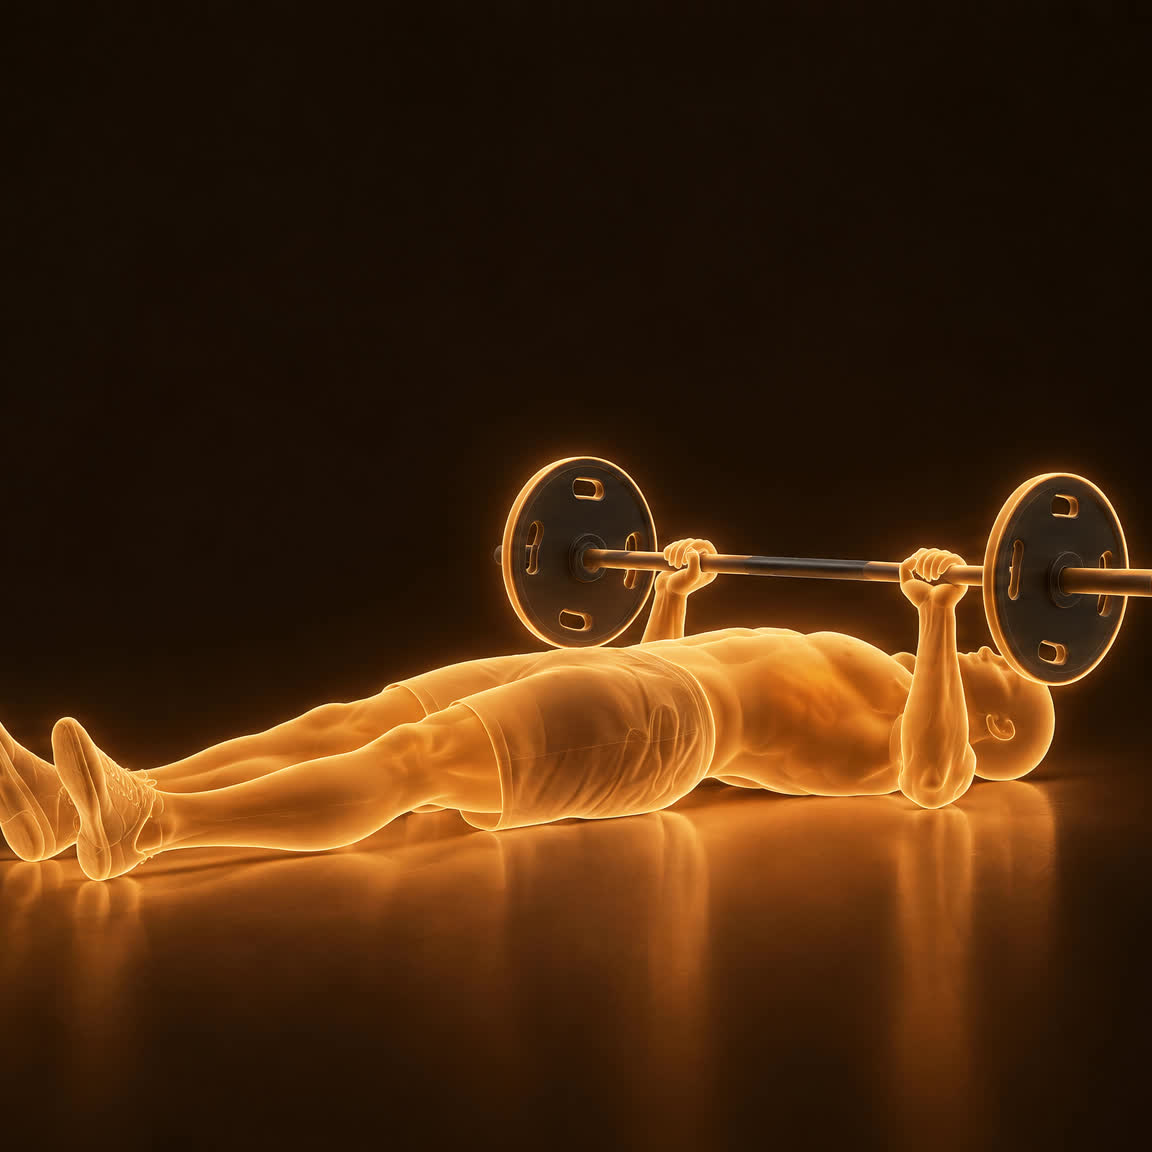
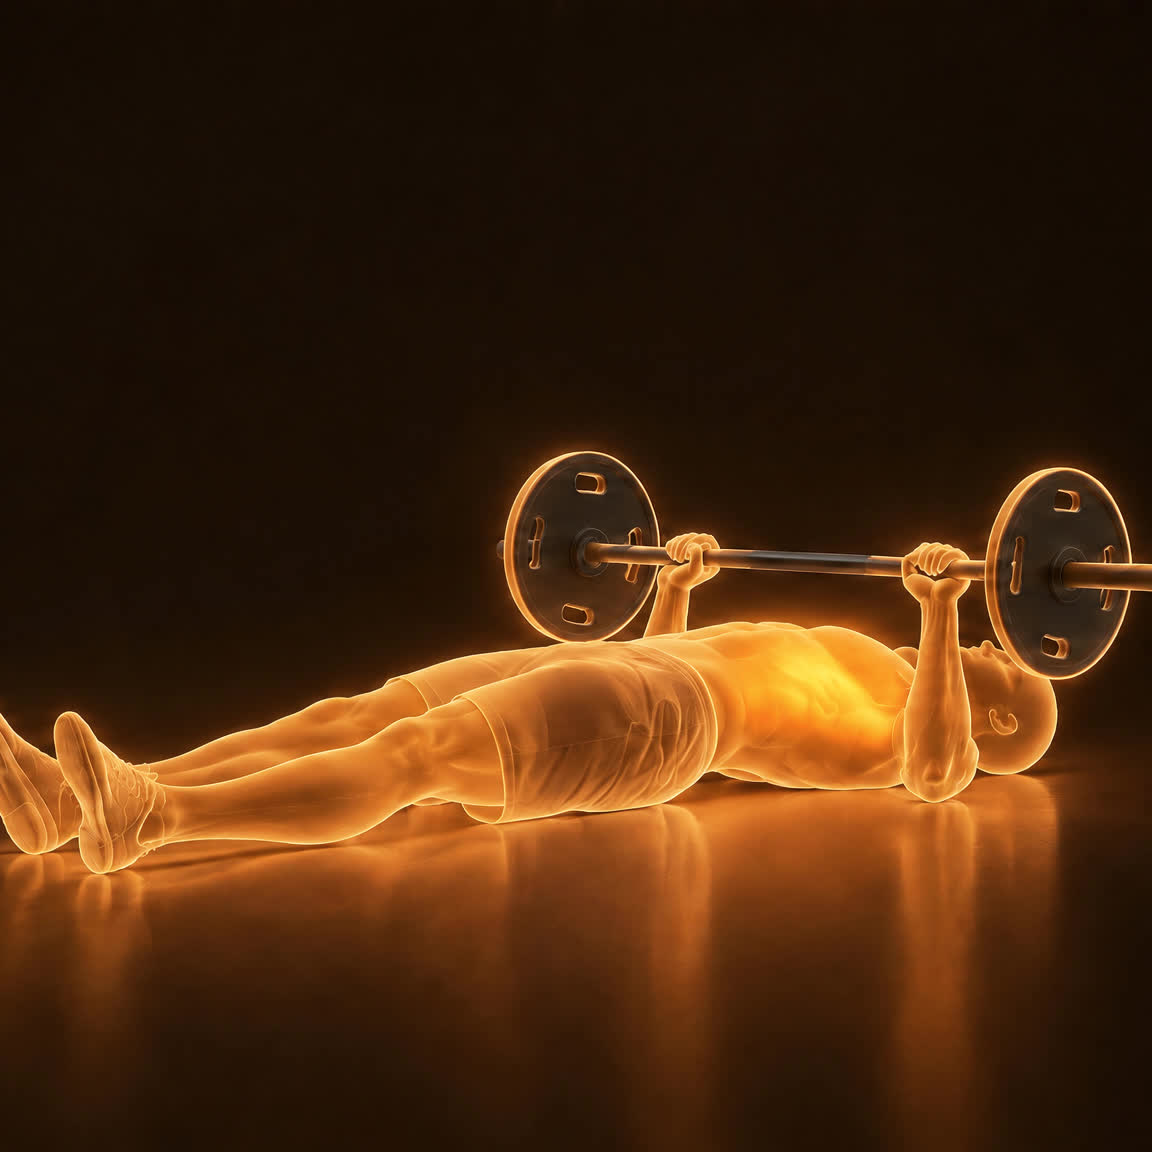
Unification round 1 v2: working-muscle glow stronger (Asaf), as an edit of each approved pair so the poses stay; x245's rib patch removed in the same edit. All 18 frames inside check 8. 9 credits.

Changed region(s): [[0.0, 0.375, 1.0, 0.7812]]

diff --git a/exercise-sheets/unify.html b/exercise-sheets/unify.html
@@ -3,7 +3,7 @@
 h1{font-size:21px;margin:0 0 4px}p{color:var(--mut);margin:0 0 16px}p.warn{color:var(--warn);margin:0 0 8px}h2{font-size:17px;margin:22px 0 8px;border-top:1px solid var(--line);padding-top:12px}h2 small{color:var(--mut);font-weight:400;font-size:13px}
 .row{display:grid;grid-template-columns:1fr 1fr;gap:8px}figure{margin:0}img{width:100%;display:block;border-radius:6px}figcaption{color:var(--mut);font-size:13px;margin-top:2px}
 .ref{display:grid;grid-template-columns:1fr 1fr 1fr;gap:8px;max-width:600px;margin-bottom:8px}</style></head><body>
-<h1>סבב איחוד 1, גרסה 2</h1><p>הגוף של x103 שאישרת - רך, שקוף, ענבר. הציוד בצבע אחר - גרפיט כהה עם קו מואר, כדי שרואים איפה היד אוחזת. ההדגמה הישנה נשארת באפליקציה עד שתאשר.</p>
+<h1>סבב איחוד 1, גרסה 2 - זוהר חזק יותר</h1><p>השריר העובד זוהר עכשיו חזק יותר, וכל השאר כמו בגרסה הקודמת. הגוף של x103 שאישרת - רך, שקוף, ענבר. הציוד בצבע אחר - גרפיט כהה עם קו מואר, כדי שרואים איפה היד אוחזת. ההדגמה הישנה נשארת באפליקציה עד שתאשר.</p>
 <div class="ref"><figure><img src="character/EARLY-stand.jpg"><figcaption>3.11</figcaption></figure><figure><img src="character/EARLY-bench.jpg"><figcaption>3.11</figcaption></figure><figure><img src="character/EARLY-seated.jpg"><figcaption>3.11</figcaption></figure></div>
 <section><h2>לחיצת חזה על הרצפה <small>x10 · Floor Press</small></h2><div class="row"><figure><img src="unify/x10/start.jpg" loading="lazy"><figcaption>התחלה</figcaption></figure><figure><img src="unify/x10/end.jpg" loading="lazy"><figcaption>סוף</figcaption></figure></div></section>
 <section><h2>סקאל קראשר <small>x112 · Skull Crushers</small></h2><div class="row"><figure><img src="unify/x112/start.jpg" loading="lazy"><figcaption>התחלה</figcaption></figure><figure><img src="unify/x112/end.jpg" loading="lazy"><figcaption>סוף</figcaption></figure></div></section>
@@ -12,6 +12,6 @@ h1{font-size:21px;margin:0 0 4px}p{color:var(--mut);margin:0 0 16px}p.warn{color
 <section><h2>פשיטת שורש כף יד <small>x124 · Reverse Wrist Curl</small></h2><div class="row"><figure><img src="unify/x124/start.jpg" loading="lazy"><figcaption>התחלה</figcaption></figure><figure><img src="unify/x124/end.jpg" loading="lazy"><figcaption>סוף</figcaption></figure></div></section>
 <section><h2>שכיבות סמיכה בשיפוע <small>x19 · Incline Push Ups</small></h2><div class="row"><figure><img src="unify/x19/start.jpg" loading="lazy"><figcaption>התחלה</figcaption></figure><figure><img src="unify/x19/end.jpg" loading="lazy"><figcaption>סוף</figcaption></figure></div></section>
 <section><h2>פשיטת מרפק מעל הראש בפולי תחתון <small>x244 · Low Cable Overhead Tricep Extension</small></h2><div class="row"><figure><img src="unify/x244/start.jpg" loading="lazy"><figcaption>התחלה</figcaption></figure><figure><img src="unify/x244/end.jpg" loading="lazy"><figcaption>סוף</figcaption></figure></div></section>
-<section><h2>כפיפת מרפק בפולי על ספסל משופע <small>x245 · Incline Bench Cable Curl</small></h2><p class="warn">ידוע: הזוהר יושב גם על הצלעות ולא רק על הזרוע (פעם שנייה)</p><div class="row"><figure><img src="unify/x245/start.jpg" loading="lazy"><figcaption>התחלה</figcaption></figure><figure><img src="unify/x245/end.jpg" loading="lazy"><figcaption>סוף</figcaption></figure></div></section>
+<section><h2>כפיפת מרפק בפולי על ספסל משופע <small>x245 · Incline Bench Cable Curl</small></h2><div class="row"><figure><img src="unify/x245/start.jpg" loading="lazy"><figcaption>התחלה</figcaption></figure><figure><img src="unify/x245/end.jpg" loading="lazy"><figcaption>סוף</figcaption></figure></div></section>
 <section><h2>סקוואט <small>x128 · Barbell Squat</small></h2><div class="row"><figure><img src="unify/x128/start.jpg" loading="lazy"><figcaption>התחלה</figcaption></figure><figure><img src="unify/x128/end.jpg" loading="lazy"><figcaption>סוף</figcaption></figure></div></section>
 </body></html>

diff --git a/.claude/skills/exercise-animation/SKILL.md b/.claude/skills/exercise-animation/SKILL.md
@@ -7,7 +7,7 @@ description: בניית אנימציה של תרגיל אחד למאגר (exerci
 
 ## שישה כללים שתמיד חלים
 
-1. **יש לנו גוף אחד: הדמות של הסבב הראשון בענבר (3.11),** `exercise-sheets/character/EARLY-stand.jpg` (עמידה), `EARLY-bench.jpg` (שכיבה), `EARLY-seated.jpg` (ישיבה) - פריימים מההדגמות המקוריות x96, x1, x72. גוף רזה וארוך, זוהר בקו המתאר, פנים עמומים ושקופים, רקע כמעט שחור, נעלי ספורט זוהרות. התמונה שמתאימה לתנוחה היא תמונה 2 בכל יצירה ובכל עריכה, והגוף לא מתואר במילים (אסף, 9.11: "שנחזור לגרסאות שיצרנו מיד לאחר מכן. הן היו עליי האהובות ביותר. גם מבנה הגוף וגם הצבע"). דף הדמות sheet-2 היה הרפרנס 9.11 בבוקר, ונדחה לטובתן. **ועוד דבר אחד מעליה: זוהר עדין של השריר העובד** (אסף, 9.11: "צריך להוסיף את קצת הזוהר של השריר הפעיל"). בהנחיה, משפט אחד בלבד: "the [muscle] glows slightly brighter from inside, subtle; everything else exactly as image 2". השריר באנגלית לפי `m[0]` של התרגיל בספרייה. **כל הדגמה באפליקציה שאינה בדיוק בסגנון הזה מוחלפת** - הרשימה והמצב ב-`exercise-sheets/UNIFY.md`. **ההחלפה:** ההנחיה היא ציור קווים של הפריימים המאושרים (ffmpeg `format=gray,edgedetect=low=0.08:high=0.25,negate`), לא הפריימים עצמם - פריים זהוב כהנחיה מחזיר את הסגנון הישן (x10, x112, x7, x103 יצאו זהובים). תמונה 2 היא EARLY-stand גם בשכיבה ובישיבה, וההנחיה מתארת את התרגיל במילים, כולל מה **לא** קיים ("on the floor, no bench") - בלי זה המודל העתיק את הספסל מ-EARLY-bench. מנסחים "IMAGE 2 gives ONLY the look ... sneakers ... Do not copy image 2's pose". ביד אחת: "exactly ONE handle" לא הספיק פעמיים (x100) - עוברים לשיטה ג. שום רפרנס אחר לגוף, ושום תיאור של חומר, צבע, שרירים או מכנס. ב-7-8.11 הדבקות בדף אבדה ו-13 מתוך 17 נדחו.
+1. **יש לנו גוף אחד: הדמות של הסבב הראשון בענבר (3.11),** `exercise-sheets/character/EARLY-stand.jpg` (עמידה), `EARLY-bench.jpg` (שכיבה), `EARLY-seated.jpg` (ישיבה) - פריימים מההדגמות המקוריות x96, x1, x72. גוף רזה וארוך, זוהר בקו המתאר, פנים עמומים ושקופים, רקע כמעט שחור, נעלי ספורט זוהרות. התמונה שמתאימה לתנוחה היא תמונה 2 בכל יצירה ובכל עריכה, והגוף לא מתואר במילים (אסף, 9.11: "שנחזור לגרסאות שיצרנו מיד לאחר מכן. הן היו עליי האהובות ביותר. גם מבנה הגוף וגם הצבע"). דף הדמות sheet-2 היה הרפרנס 9.11 בבוקר, ונדחה לטובתן. **ועוד דבר אחד מעליה: זוהר עדין של השריר העובד** (אסף, 9.11: "צריך להוסיף את קצת הזוהר של השריר הפעיל"). בהנחיה, משפט אחד בלבד: "the [muscle] glow noticeably brighter from inside - a warm brighter amber light, clearly visible but soft-edged, the same amber as the body, not yellow, not white" (אסף, 9.11: "וזוהר מעט חזק יותר" - "subtle" יצא כמעט בלתי נראה). כשהזוג כבר טוב והזוהר חלש, עורכים את הזוג עצמו ("Edit this image. Keep EVERYTHING exactly as it is ... Change only one thing") - קרדיט אחד, והתנוחות לא משתנות. השריר באנגלית לפי `m[0]` של התרגיל בספרייה. **כל הדגמה באפליקציה שאינה בדיוק בסגנון הזה מוחלפת** - הרשימה והמצב ב-`exercise-sheets/UNIFY.md`. **ההחלפה:** ההנחיה היא ציור קווים של הפריימים המאושרים (ffmpeg `format=gray,edgedetect=low=0.08:high=0.25,negate`), לא הפריימים עצמם - פריים זהוב כהנחיה מחזיר את הסגנון הישן (x10, x112, x7, x103 יצאו זהובים). תמונה 2 היא EARLY-stand גם בשכיבה ובישיבה, וההנחיה מתארת את התרגיל במילים, כולל מה **לא** קיים ("on the floor, no bench") - בלי זה המודל העתיק את הספסל מ-EARLY-bench. מנסחים "IMAGE 2 gives ONLY the look ... sneakers ... Do not copy image 2's pose". ביד אחת: "exactly ONE handle" לא הספיק פעמיים (x100) - עוברים לשיטה ג. שום רפרנס אחר לגוף, ושום תיאור של חומר, צבע, שרירים או מכנס. ב-7-8.11 הדבקות בדף אבדה ו-13 מתוך 17 נדחו.
 2. **קודם שתי תמונות, אחר כך אנימציה.** את פריים ההתחלה והסוף שולחים לאסף לאישור לפני שבונים אנימציה, וממשיכים לסבב רק כשיש תבנית מאושרת.
 3. **השלבים רצים לפי הסדר, כולם, בכל תרגיל.** שלב שלא בוצע הוא שלב שנכשל.
 4. **כלל שנכשל עוצר.** לא שולחים "עם הסתייגות". מתקנים בחינם, או עוצרים ושואלים.
